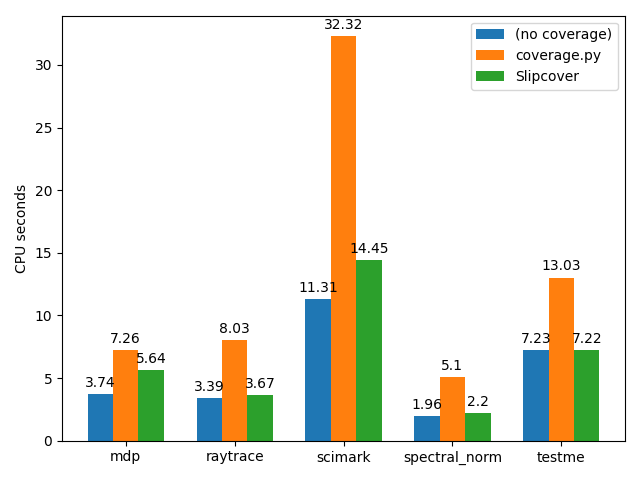
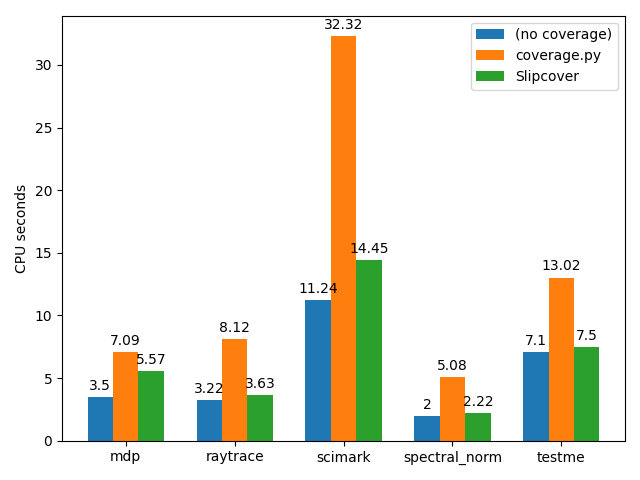
- added computing overhead percentage;
- reorganized benchmark runner to facilitate modifying to add
  support for incremental runs;

diff --git a/benchmark/run_benchmarks.py b/benchmark/run_benchmarks.py
@@ -2,6 +2,10 @@ import numpy as np
 import matplotlib.pyplot as plt
 import pickle
 import re
+from pathlib import Path
+from collections import namedtuple
+
+BENCHMARK_FILE = 'benchmark/benchmark.pkl'
 
 def run_command(command: str):
     import subprocess
@@ -23,45 +27,71 @@ def run_command(command: str):
 
 
 try:
-    with open('benchmark.pkl', 'rb') as f:
+    with open(BENCHMARK_FILE, 'rb') as f:
         results = pickle.load(f)
 
 except FileNotFoundError:
-    from pathlib import Path
-
     results = dict()
 
-    for bench in [*Path('benchmark').glob('*.py'), Path('test/testme.py')]:
-        match = re.search('^(bm_)?(.*?)\.py$', bench.name)
-        name = match.group(2) if match else bench.name
-        if bench not in results:
-            results[name] = dict()
+Case = namedtuple('Case', 'name command')
 
-        results[name]['(no coverage)'] = run_command(f"python3 {bench}")
-        results[name]['coverage.py'] = \
-                run_command(f"python3 -m coverage run --include={bench} {bench}")
-        results[name]['Slipcover'] = run_command(f"python3 -m slipcover {bench}")
+cases = [Case("(no coverage)", "python3 {bench}"),
+         Case("coverage.py", "python3 -m coverage run --include={bench} {bench}"),
+         Case("Slipcover", "python3 -m slipcover {bench}")
+]
 
-    with open('benchmark.pkl', 'wb') as f:
+for case in cases:
+    if case.name not in results:
+        results[case.name] = dict()  # can't pickle defaultdict(lambda: dict())
+
+Benchmark = namedtuple('Benchmark', 'name file')
+
+def path2name(p: Path) -> str:
+    match = re.search('^(bm_)?(.*?)\.py$', p.name)
+    return match.group(2) if match else p.name
+
+benchmarks = [Benchmark(path2name(p), p) for p in [
+                *Path('benchmark').glob('bm_*.py'), Path('test/testme.py')]]
+
+ran_any = False
+for case in cases:
+    for bench in benchmarks:
+        if bench.name in results[case.name]:
+            continue
+
+        results[case.name][bench.name] = run_command(case.command.format(bench=bench.file))
+        ran_any = True
+
+if ran_any:
+    with open(BENCHMARK_FILE, 'wb') as f:
         pickle.dump(results, f, pickle.HIGHEST_PROTOCOL)
 
-bars = list(results[next(iter(results))].keys())
 
-benchmarks = list(results.keys())
+base = cases[0]
+base_times = [sum(results[base.name][b.name]) for b in benchmarks]
+for case in cases:
+    if case == base:
+        continue
+
+    times = [sum(results[case.name][b.name]) for b in benchmarks]
+    rel_times = [((t/bt)-1)*100 for t, bt in zip(times, base_times)]
+
+    print(f"Overhead for {case.name}: {min(rel_times):.0f}% - {max(rel_times):.0f}%")
+
 x = np.arange(len(benchmarks))
-n_bars = len(bars)
+n_bars = len(cases)
 width = .70 # of all bars
-bar_x = np.arange(width/n_bars/2, width, width/n_bars) - width/2
+bars_x = np.arange(width/n_bars/2, width, width/n_bars) - width/2
 
 fig, ax = plt.subplots()
-for i, bar in enumerate(bars):
-    rects = ax.bar(x + bar_x[i], [sum(results[bench][bar]) for bench in benchmarks],
-                   width/n_bars, label=bar)
+for case, bar_x in zip(cases, bars_x):
+    rects = ax.bar(x + bar_x, [sum(results[case.name][b.name]) for b in benchmarks],
+                   width/n_bars, label=case.name)
     ax.bar_label(rects, padding=3)
 
 #ax.set_title('Execution time')
 ax.set_ylabel('CPU seconds')
-ax.set_xticks(x, labels=benchmarks)
+ax.set_xticks(x, labels=[b.name for b in benchmarks])
 ax.legend()
 
 fig.tight_layout()
